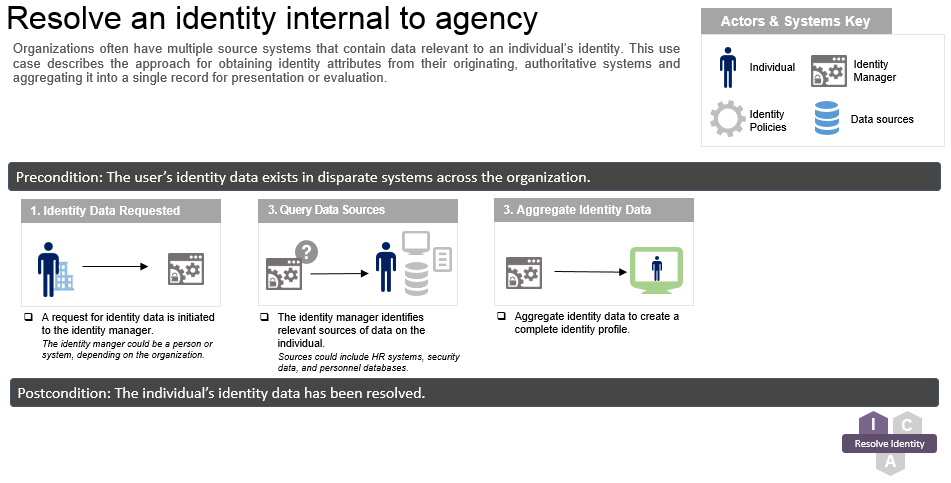
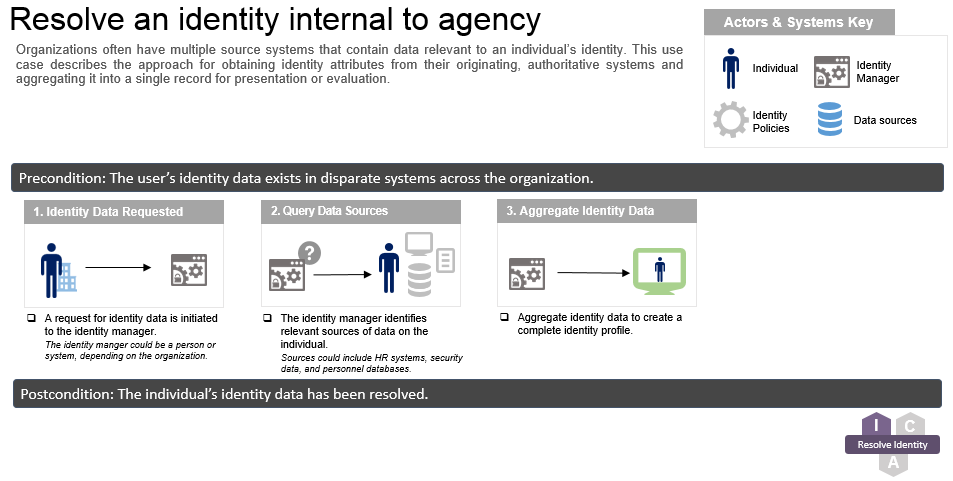
Half of updated use cases for 508 compliance

diff --git a/_usecases/12_proofidentityloa2.md b/_usecases/12_proofidentityloa2.md
@@ -3,9 +3,24 @@ layout: page_collection
 title: Proof an Identity at Level of Assurance 2
 collection: usecases
 ---
-This use case describes the process for completing identity proofing at Level of Assurance 2 (LOA2), which allows an individual to receive an LOA2 credential. LOA2 requires an individual submit basic documents to prove their claimed identity and may be completed in person or remotely.
 
-![Proof an identity at LOA2](../../img/ProofLOA2.png)
+This use case describes the process for completing identity proofing at Level of Assurance 2 (LOA2), which allows an individual to receive an LOA2 credential. LOA2 requires an individual to submit basic documents to prove their claimed identity and may be completed in person or remotely.
+
+---
+
+![Actors and Systems Key for Images](../../img/usecases/ilabelproof.png){:align="right"}
+![Actors and Systems Key for Images](../../img/usecases/proofloa2key.png)
+
+**Pre-condition:** A need has been established for an individual to receive an LOA2 credential.
+
+| ![1A. Identity Info Presented In-Person](../../img/usecases/proofloa21a.png)  | If in person, the individual presents a valid government ID.  |
+| ![1B. Identity Info Presented Remotely](../../img/usecases/proofloa21b.png)  | If remote, the individual presents a utility company or bank account number and a government issued ID number.  |
+| ![2. Information Verified](../../img/usecases/proofloa22.png)  | If in person, the approval authority matches the photo on the ID with the individual.<br/> If remote, the approval authority verifies either the government ID number or the account number.  |
+| ![3. Confirmation](../../img/usecases/proofloa23.png)  | The approval authority confirms the individual’s contact information.  |
+
+**Post-condition:** The individual’s identity is proofed at LOA2.
+
+[Click here](../../img/ProofLOA2.png) for a consolidated image of this use case.
 
 ## Considerations
 * Federal employees and contractors should be proofed at LOA3 or LOA4. Identity proofing at LOA2 may apply to other populations, such as citizens. The systems that these individuals access generally do not require the extensive identity proofing of LOA3 or LOA4, but the minimal identity proofing of LOA1 may not meet the standards needed to access certain government systems.

diff --git a/_usecases/22_createcredentialloa3.md b/_usecases/22_createcredentialloa3.md
@@ -3,8 +3,26 @@ layout: page_collection
 title: Create and Issue Level of Assurance 3 Credential
 collection: usecases
 ---
+
 This use case describes the process for creating and issuing a credential at Level of Assurance 3 (LOA3).
 A credential token meets LOA3 when it uses multiple factors for authentication (see Authentication Use Case), includes regular online checks that the credential is still valid, and includes strong cryptography.  
 LOA3 credentials can be either hardware or software tokens and are recognized as LOA3 strength when paired with identity proofing at LOA3 or LOA4.
 
-![Create and issue LOA3](../../img/LOA3Cred.png)
+---
+
+![Actors and Systems Key for Images](../../img/usecases/clabelissuance.png){:align="right"}
+![Actors and Systems Key for Images](../../img/usecases/createloa3key.png)
+
+**Pre-condition:** An individual has the need for an LOA3 credential.
+
+| ![1. Request Issued](../../img/usecases/createloa3s1.png)  | A sponsor requests a credential for the individual. <br/><em> Sponsor should be an official who can verify the individual's need for a credential.</em> |
+| ![2. Request Approved](../../img/usecases/createloa3s2.png)  | The approval authority reviews the sponsor’s request. If the request is valid, it is approved.  |
+| ![3. Token Generated](../../img/usecases/createloa3s3.png)  | The CSP generates the credential token and assigns it to the individual. <br/><em> Issuer could be a person or a system.</em>  |
+| ![4. Token Delivered](../../img/usecases/createloa3s4.png)  | The CSP securely issues token to the individual. <br/><em> Delivery could occur through encrypted email, secure mail, or an authorized in-person issuer.</em> |
+| ![5. Token Activated](../../img/usecases/createloa3s5.png)  | The individual is prompted to activate the token and establish a memorized secret. <br/><em> This will later be used to authenticate the individual. It is commonly a PIN or password.</em>  |
+| ![6. Functionality Verified](../../img/usecases/createloa3s6.png)  | The individual verifies token functionality through a test system.  |
+
+**Post-condition:** Individual has an activated LOA3 credential ready for use.
+
+[Click here](../../img/LOA3Cred.png) for a consolidated image of this use case.
+

diff --git a/_usecases/23_createcredentialloa4.md b/_usecases/23_createcredentialloa4.md
@@ -3,8 +3,26 @@ layout: page_collection
 title: Create and Issue Level of Assurance 4 Credential
 collection: usecases
 ---
+
 This use case describes the process for creating and issuing a credential at Level of Assurance 4 (LOA4).  
 A credential token meets LOA4 when it uses multiple factors for authentication (see Authentication Use Case), includes regular online checks that the credential is still valid, and includes a strong cryptographic module.  
 LOA4 tokens are exclusively hardware-based and are recognized as LOA4 strength only when paired with identity proofing at LOA4.  
 
-![Create and issue LOA4](../../img/LOA4Cred.png)
+---
+
+![Actors and Systems Key for Images](../../img/usecases/clabelissuance.png){:align="right"}
+![Actors and Systems Key for Images](../../img/usecases/createloa4key.png)
+
+**Pre-condition:** An individual has the need for an LOA4 credential.
+
+| ![1. Request Issued](../../img/usecases/createloa4s1.png)  | A sponsor requests a credential for the individual. <br/><em> Sponsor should be an official who can verify the individual's need for a credential.</em> |
+| ![2. Request Approved](../../img/usecases/createloa4s2.png)  | The approval authority reviews the sponsor’s request. If the request is valid, it is approved. <br/><em> Review and approval could require a background investigation.</em> |
+| ![3. Token Generated](../../img/usecases/createloa4s3.png)  | The CSP generates the credential token and digitally assigns it to the requested individual.  |
+| ![4. Token Delivered](../../img/usecases/createloa4s4.png)  | The registrar verifies the individual's identity using biometric data, then delivers the token.  |
+| ![5. Token Activated](../../img/usecases/createloa4s5.png)  | The registrar prompts the individual to activate the token and establish a memorized secret.  |
+| ![6. Functionality Verified](../../img/usecases/createloa4s6.png)  | The individual verifies token functionality through a test system.  |
+
+**Post-condition:** Individual has an activated LOA4 credential ready for use.
+
+[Click here](../../img/LOA4Cred.png) for a consolidated image of this use case.
+

diff --git a/_usecases/14_proofidentityloa4.md b/_usecases/14_proofidentityloa4.md
@@ -3,9 +3,26 @@ layout: page_collection
 title: Proof an Identity at Level of Assurance 4
 collection: usecases
 ---
+
 This use case describes the process for completing identity proofing at Level of Assurance 4 (LOA4), which allows an individual to receive an LOA4 credential. LOA4 identity proofing must be completed in person and requires the most robust process for verifying the individual’s claimed identity.
 
-![Proof an identity at LOA4](../../img/ProofLOA4.png)
+---
+
+![Actors and Systems Key for Images](../../img/usecases/ilabelproof.png){:align="right"}
+![Actors and Systems Key for Images](../../img/usecases/proofloa4key.png)
+
+**Pre-condition:** A need has been established for an individual to receive an LOA4 credential.
+
+| ![1. Government ID Supplied](../../img/usecases/proof4s1.png)  | An individual presents a valid government issued ID.  |
+| ![2. Government ID Verified](../../img/usecases/proof4s2.png)  | The government ID is verified with the organization that issued it.  |
+| ![3. Additional Information Supplied](../../img/usecases/proof4s3.png)  | The individual presents a second form of government ID or an account number.  |
+| ![4. Additional Information Verified](../../img/usecases/proof4s4.png)  | The approval authority verifies that the second form of ID matches the first form of ID, or verifies the account number.  |
+| ![5. Confirmation](../../img/usecases/proof4s5.png)  | The approval authority confirms the individual’s contact information.  |
+| ![6. Biometrics Captured](../../img/usecases/proof4s6.png)  | The individual’s biometric data is captured. <br/><em>A strong level of non-repudiation is achieved by capturing biometric data.</em>  |
+
+**Post-condition:** The individual’s identity is proofed at LOA4.
+
+[Click here](../../img/ProofLOA4.png) for a consolidated image of this use case.
 
 ## External References
 * <a href="http://nvlpubs.nist.gov/nistpubs/SpecialPublications/NIST.SP.800-63-2.pdf">NIST SP 800-63-2</a>

diff --git a/_usecases/13_proofidentityloa3.md b/_usecases/13_proofidentityloa3.md
@@ -3,9 +3,24 @@ layout: page_collection
 title: Proof an Identity at Level of Assurance 3
 collection: usecases
 ---
+
 This use case describes the process for completing identity proofing at Level of Assurance 3 (LOA3), which allows an individual to receive an LOA3 credential. LOA3 requires the approval authority to complete a strong verification process and may be completed in person or remotely.
 
-![Proof an identity at LOA3](../../img/ProofLOA3.png)
+---
+
+![Actors and Systems Key for Images](../../img/usecases/ilabelproof.png){:align="right"}
+![Actors and Systems Key for Images](../../img/usecases/proofloa2key.png)
+
+**Pre-condition:** A need has been established for an individual to receive an LOA3 credential.
+
+| ![1A. Identity Info Presented In-Person](../../img/usecases/proofloa21a.png)  | If in person, the individual presents a valid government ID.  |
+| ![1B. Identity Info Presented Remotely](../../img/usecases/proofloa21b.png)  | If remote, the individual presents a utility company or financial account number and a government issued ID number.  |
+| ![2. Information Verified](../../img/usecases/proofloa32.png)  | If in person, the approval authority verifies the ID with the issuing organization.<br/> If remote, the approval authority verifies both the government ID number and the account number.  |
+| ![3. Confirmation](../../img/usecases/proofloa23.png)  | The approval authority confirms the individual’s contact information.  |
+
+**Post-condition:** The individual’s identity is proofed at LOA3.
+
+[Click here](../../img/ProofLOA3.png) for a consolidated image of this use case.
 
 ## External References
 * <a href="http://nvlpubs.nist.gov/nistpubs/SpecialPublications/NIST.SP.800-63-2.pdf">NIST SP 800-63-2</a>

diff --git a/_usecases/21_createcredentialloa2.md b/_usecases/21_createcredentialloa2.md
@@ -3,8 +3,23 @@ layout: page_collection
 title: Create and Issue Level of Assurance 2 Credential
 collection: usecases
 ---
+
 This use case describes the process for creating and issuing a credential at Level of Assurance 2 (LOA2).
 A credential token meets LOA2 when it uses a single factor for authentication (See Authentication use case), mandates a strong PIN or password, and only transmits credential information using cryptographic protection.
 LOA2 credentials are usually software tokens and are recognized as LOA2 strength only when paired with identity proofing at LOA2, LOA3, or LOA4.
 
-![Create and Issue LOA2](../../img/LOA2Cred.png)
+---
+
+![Actors and Systems Key for Images](../../img/usecases/clabelissuance.png){:align="right"}
+![Actors and Systems Key for Images](../../img/usecases/createloa2key.png)
+
+**Pre-condition:** An individual has the need for an LOA2 credential.
+
+| ![1. Request Issued](../../img/usecases/createloa2s1.png)  | The individual requests an LOA2 credential token from a Credential Service Provider (CSP).  |
+| ![2. Request Approved](../../img/usecases/createloa2s2.png)  | The CSP reviews the individual’s request. If the request is valid, it is approved.  |
+| ![3. Token Established](../../img/usecases/createloa2s3.png)  | The individual establishes a shared secret. <br/><em> This will later be used to authenticate the individual. It is commonly a PIN or password.</em>  |
+| ![4. Functionality Verified](../../img/usecases/createloa2s4.png)  | The individual verifies token functionality through a test system.  |
+
+**Post-condition:** Individual has an activated LOA2 credential ready for use.
+
+[Click here](../../img/LOA2Cred.png) for a consolidated image of this use case.

diff --git a/_usecases/15_resolveidentity.md b/_usecases/15_resolveidentity.md
@@ -3,6 +3,20 @@ layout: page_collection
 title: Resolve an Identity Internal to an Agency
 collection: usecases
 ---
+
 Organizations often have multiple source systems that contain data relevant to an individual’s identity. This use case describes the approach for obtaining identity attributes from their originating, authoritative systems and aggregating it into a single record for presentation or evaluation.
 
-![Resolve an identity](../../img/ResolveID.png)
+---
+
+![Actors and Systems Key for Images](../../img/usecases/ilabelresolve.png){:align="right"}
+![Actors and Systems Key for Images](../../img/usecases/resolvekey.png)
+
+**Pre-condition:** The user’s identity data exists in disparate systems across the organization.
+
+| ![1. Identity Data Requested](../../img/usecases/resolve1.png)  | A request for identity data is initiated to the identity manager. <br/><em> This identity manager could be a person or system, depending on the organization.</em>  |
+| ![2. Query Data Sources](../../img/usecases/resolve2.png)  | The identity manager identifies relevant sources of data on the individual. <br/><em> Sources could include HR systems, security data, and personal databases.</em>  |
+| ![3. Aggregate Identity Data](../../img/usecases/resolve3.png)  | Aggregate identity data to create a complete identity profile.  |
+
+**Post-condition:** The individual’s identity data has been resolved.
+
+[Click here](../../img/ResolveID.png) for a consolidated image of this use case.
